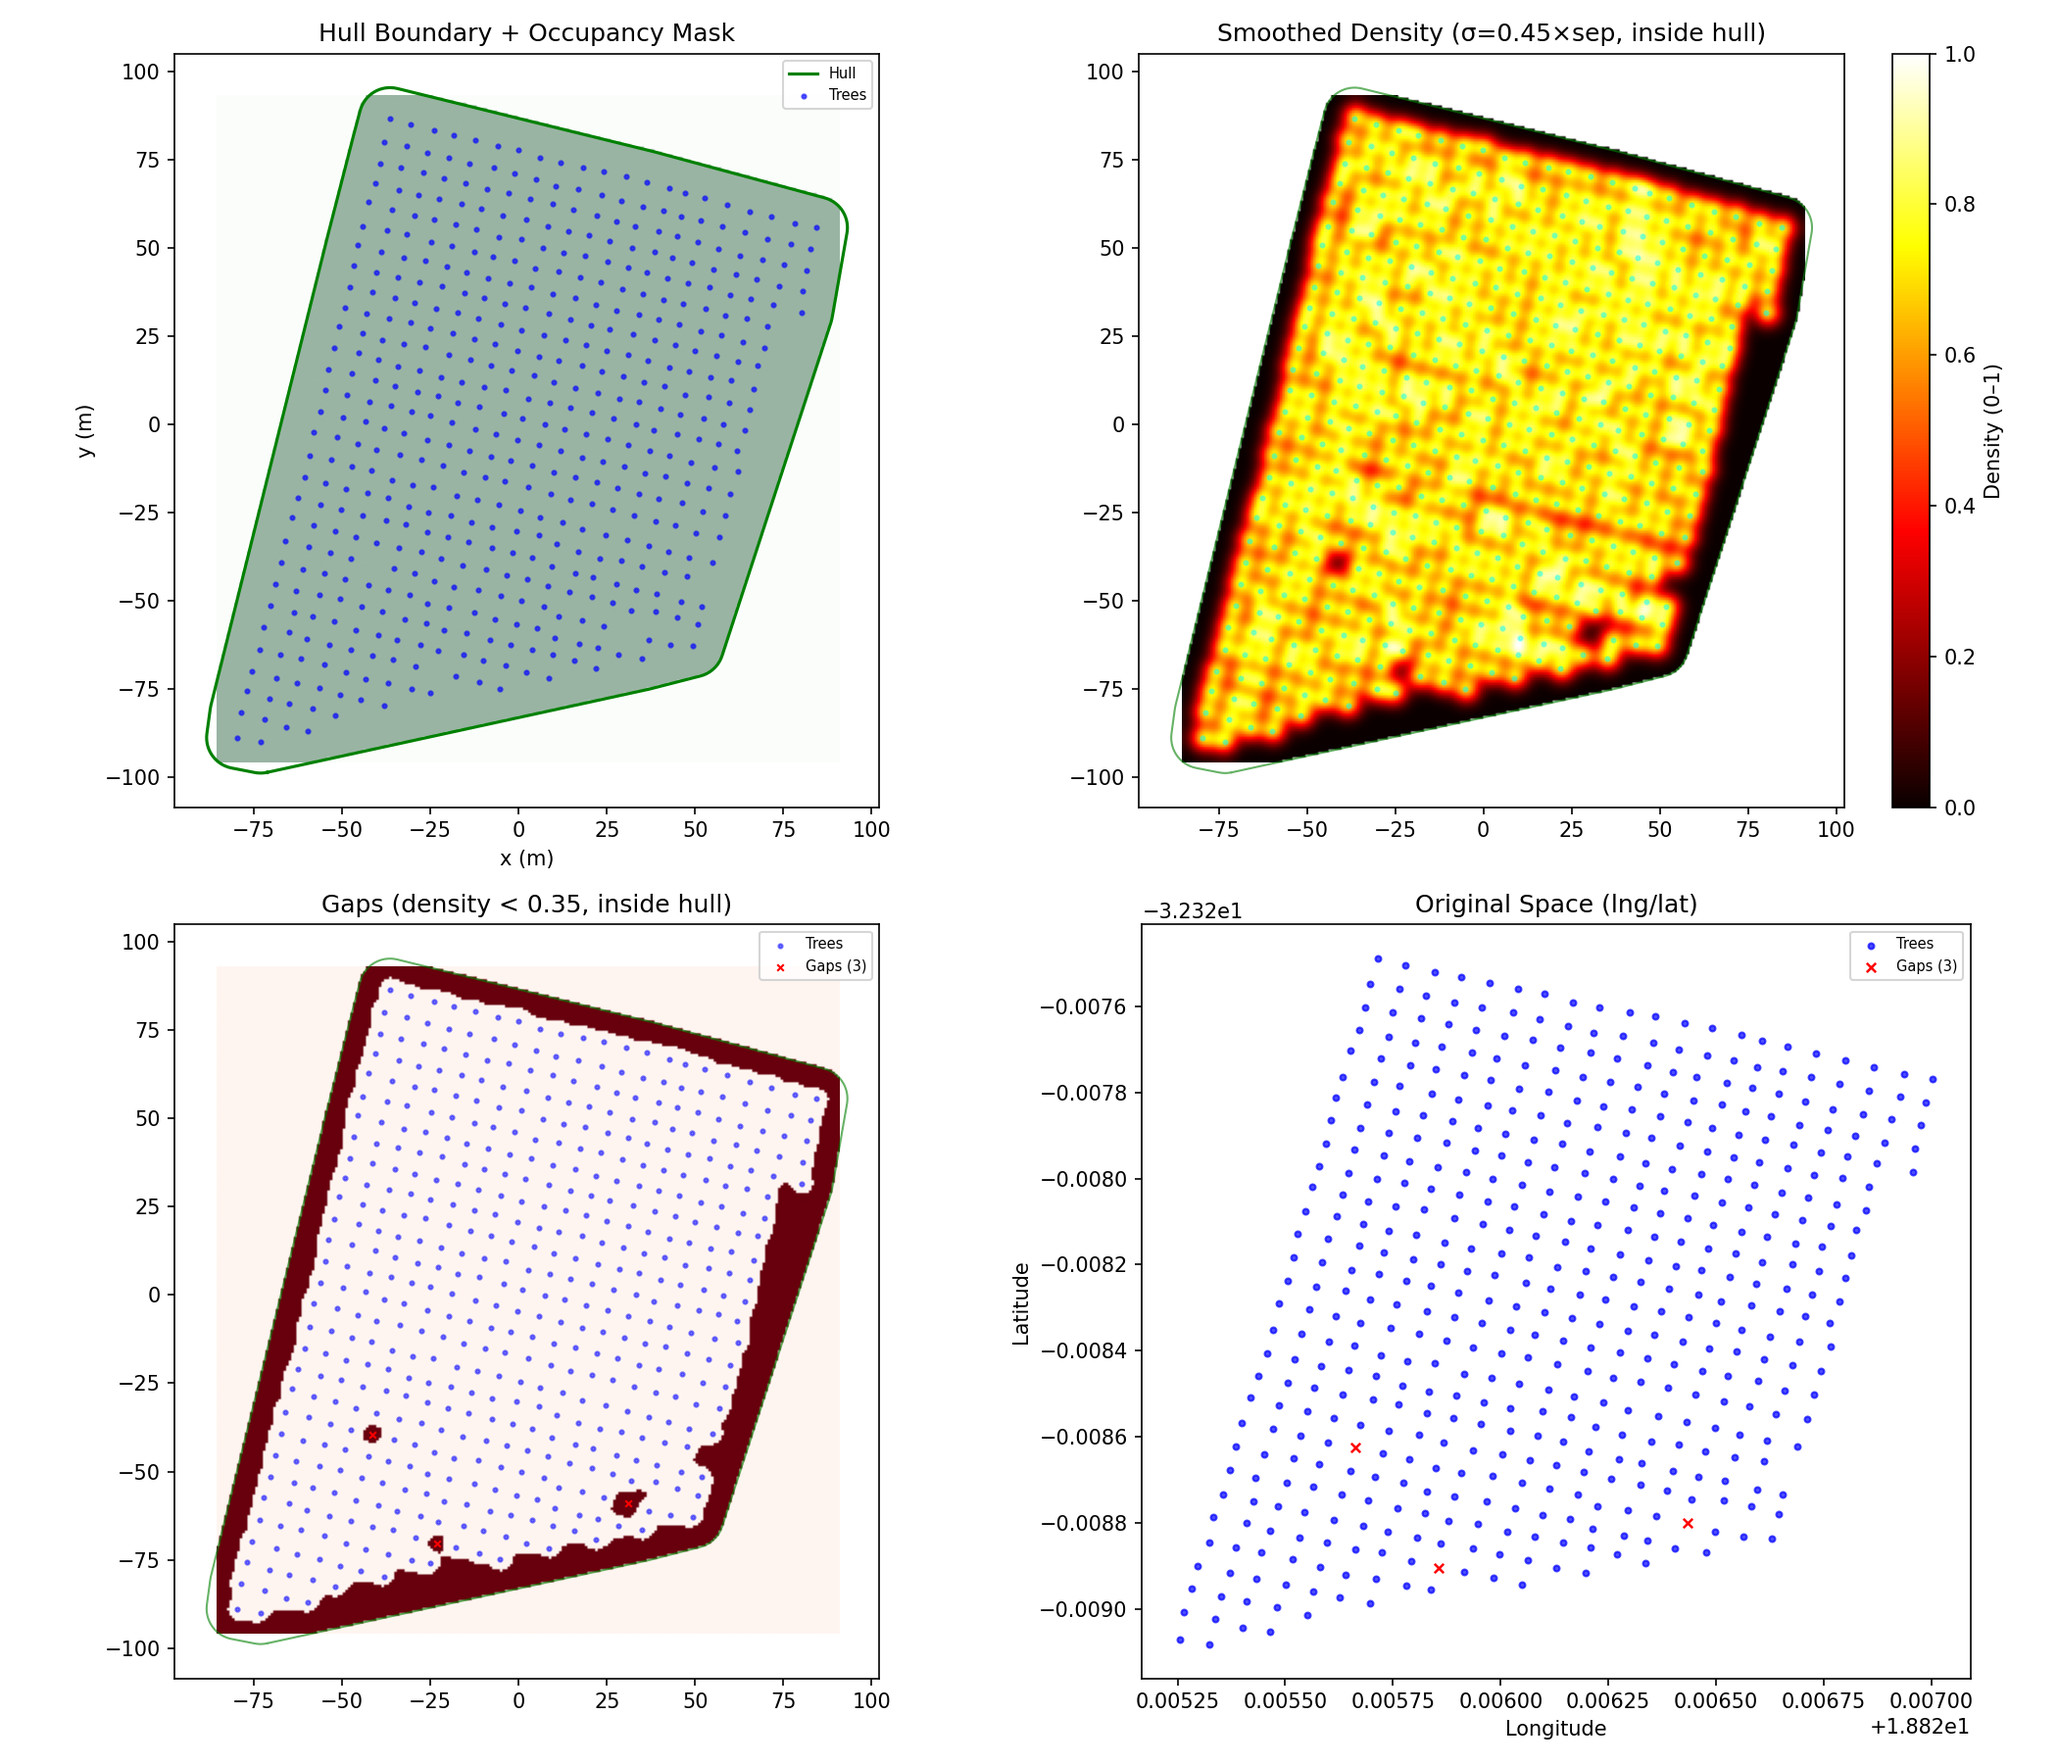
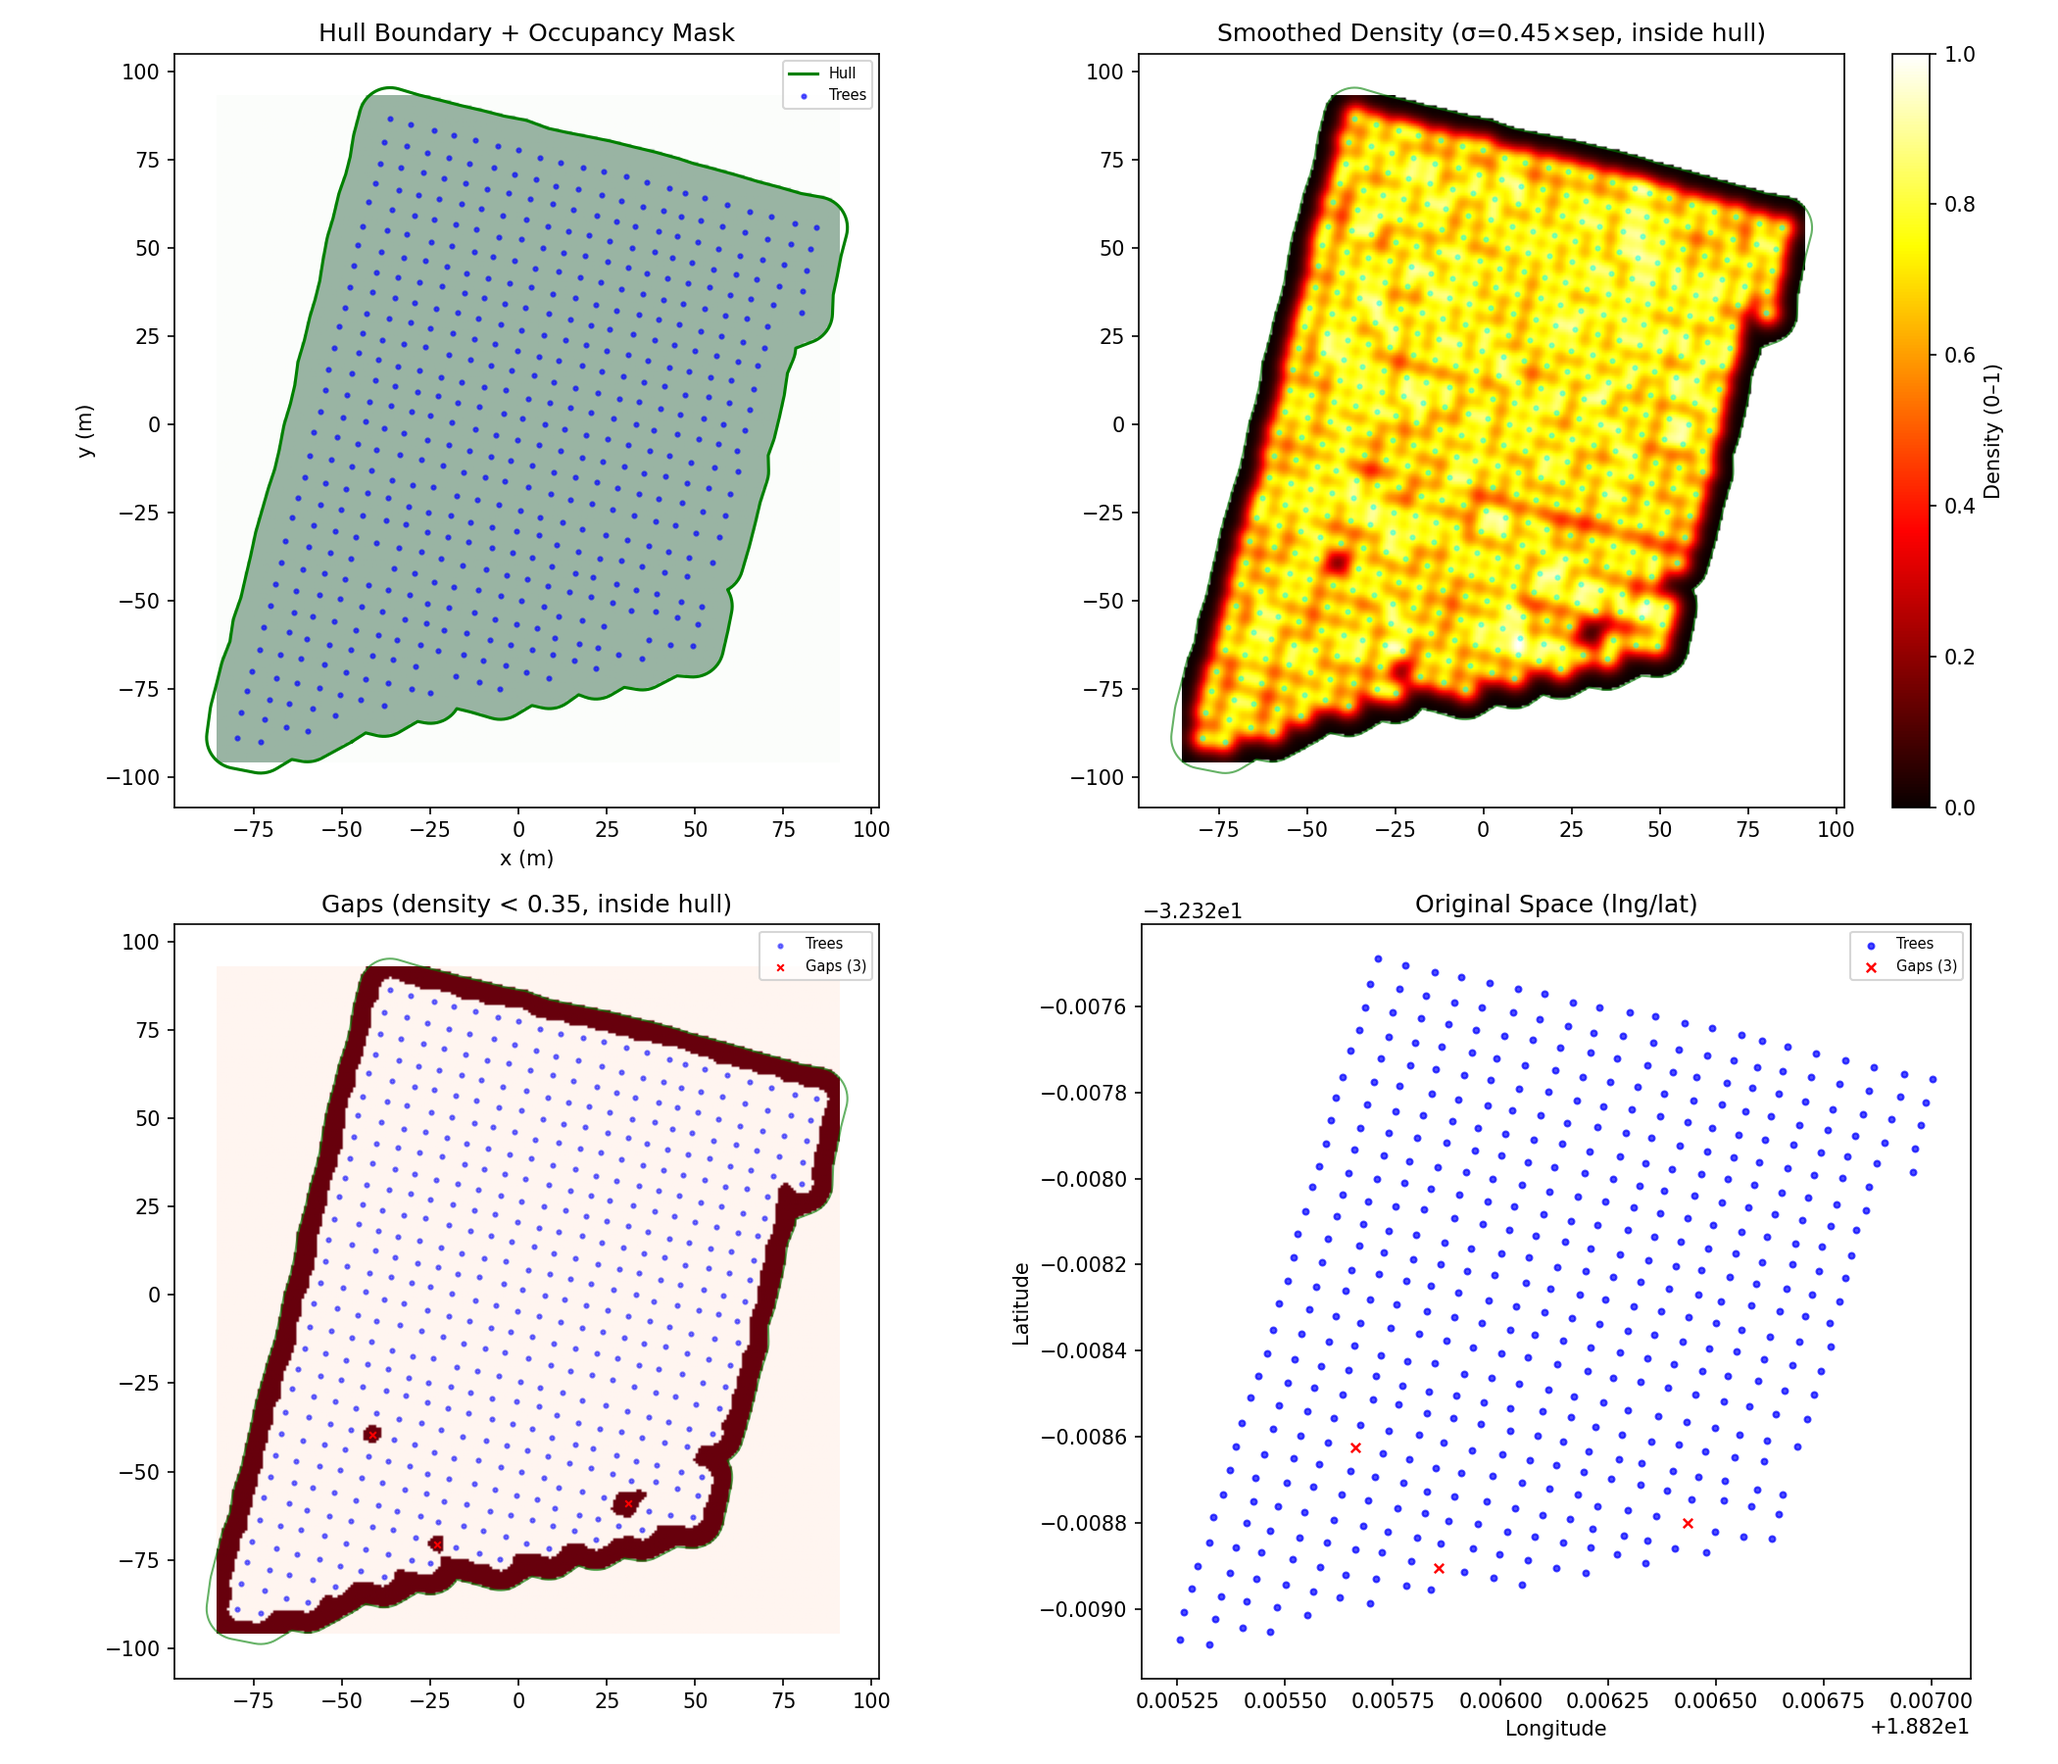
optimise boundary detection

diff --git a/src/processing.py b/src/processing.py
@@ -160,14 +160,18 @@ def smooth_raster(
 def compute_boundary(meters: NDArray, separation: float):
     """Compute a tight concave hull around the tree points.
 
-    Uses alphashape with optimized alpha. Falls back to convex hull
-    if the alpha shape is empty or a MultiPolygon. Applies a small
-    buffer of 0.5 × separation so edge trees aren't excluded.
+    Uses alphashape with a fixed alpha derived from the median NN
+    separation (alpha = 1 / separation).  This avoids the very slow
+    ``optimizealpha`` routine which can hang on large point sets.
+
+    Falls back to convex hull if the alpha shape is empty or a
+    MultiPolygon.  Applies a buffer of 1.5 × separation so edge
+    trees aren't excluded.
 
     Returns a shapely geometry.
     """
     try:
-        alpha = alphashape.optimizealpha(meters)
+        alpha = 1.0 / separation
         boundary = alphashape.alphashape(meters, alpha)
     except Exception:
         boundary = MultiPoint(meters).convex_hull
